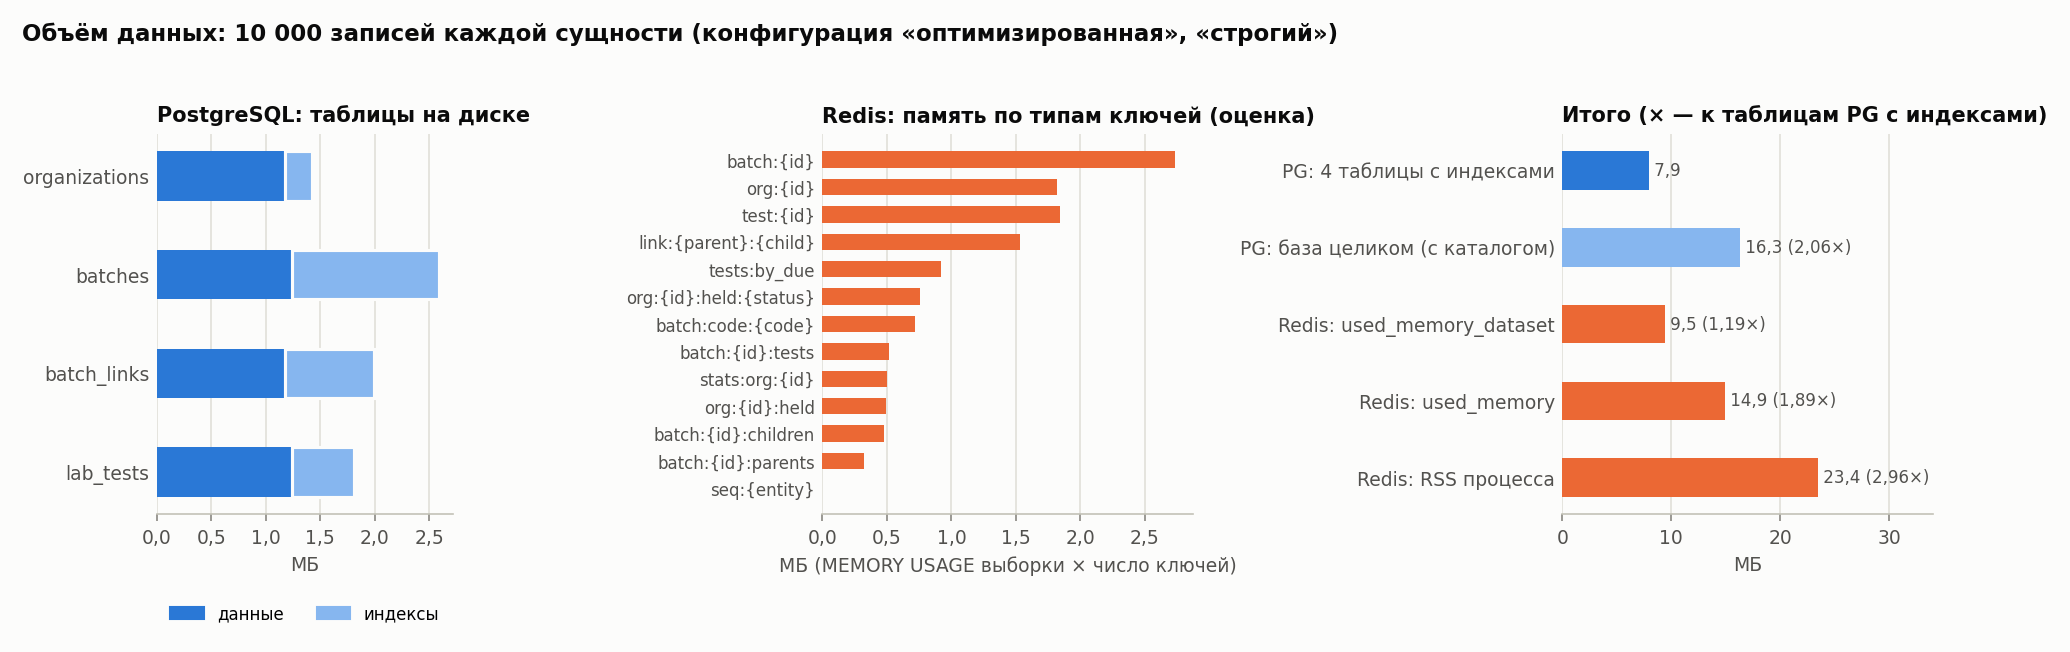
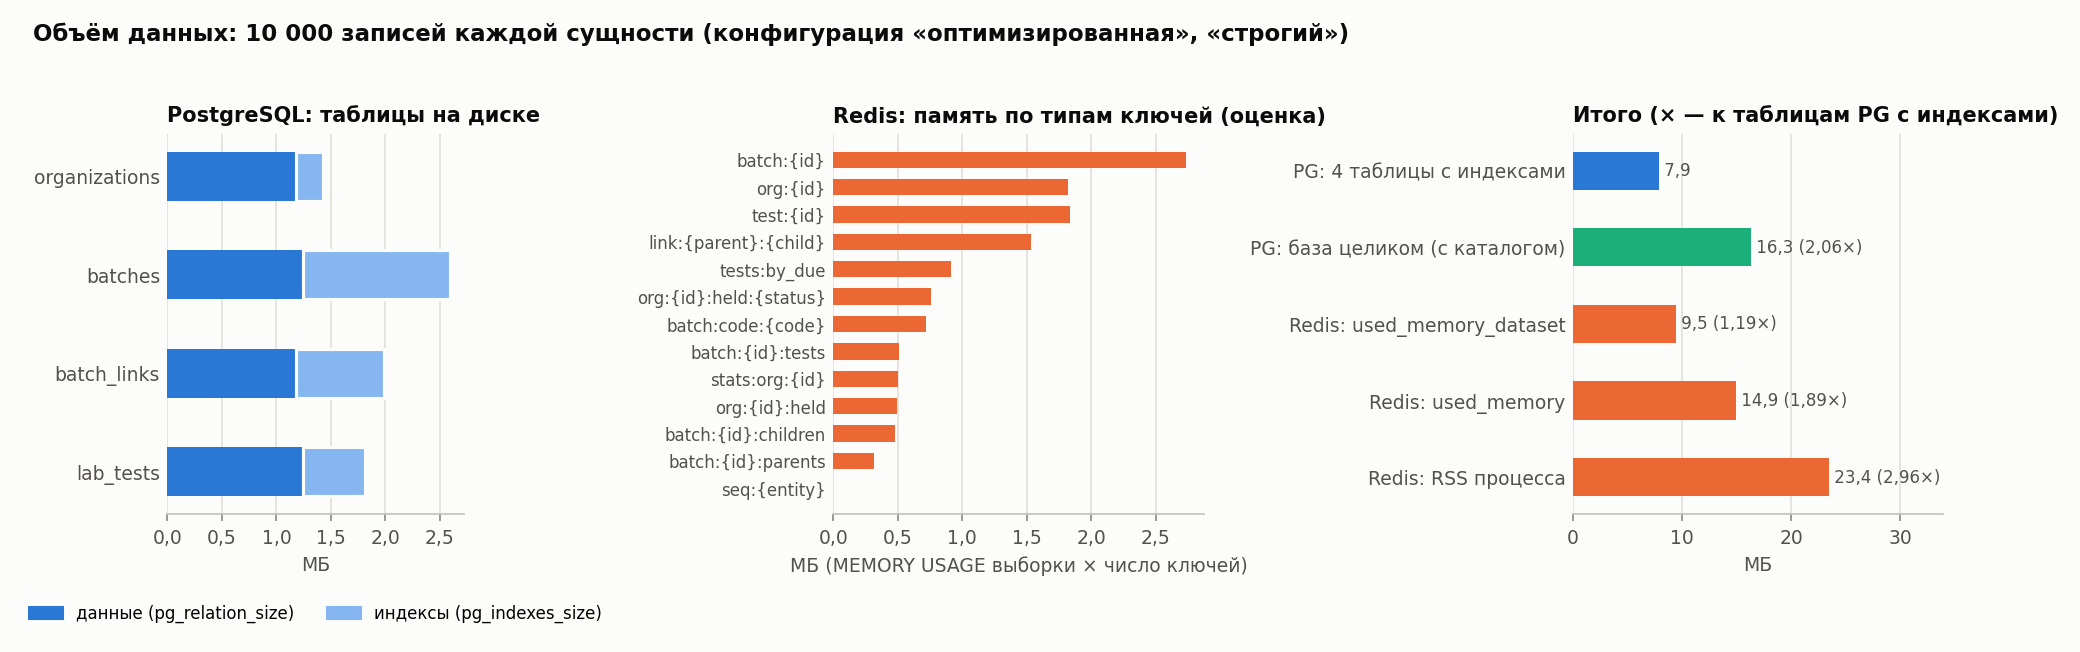
fix(bench): report wording and checker robustness (review round 2)
- checker: rejects dot decimals and letter-x factors in prose, and prose
  paragraphs with an odd number of backticks; docstring and report state
  exactly what is guaranteed and what is not (right number, wrong query)
- client_gap table: client CPU explains 31% (tuned) to 52% (default) of the
  R1 p50 gap, with the asyncio caveat
- hedges/corrections: RSS vs used_memory, D2 breakdown, max 22 descendants,
  fsync event maxima 8-20 ms, prepared ratios for both profiles
- generate.py records scale/seed in generate.json; dataset_profile reports it
- memory: no catalog ratio, distinct colour for the whole-database bar,
  exact data/index labels (pg_relation_size / pg_indexes_size)

diff --git a/benchmark/agrobench/report_tables.py b/benchmark/agrobench/report_tables.py
@@ -15,7 +15,15 @@ block is typed by hand: `python -m agrobench.report_tables` rewrites all blocks,
 - every number in the prose that is a result rather than a structural label — any number with a
   decimal comma, a thousands group, a `%` or a `×`, and any other integer >= 100 — appears as a
   whole token in some generated block. Method constants that are not in the data (warm-up sizes,
-  pipeline chunk sizes) are written as code (`1000`) and are not checked.
+  pipeline chunk sizes) are written as code (`1000`) and are not checked,
+- no prose number uses a decimal point (versions and constants go in code; section numbers after
+  `п.`/`§` and headings are exempt) and no factor is written with a letter x instead of `×`,
+- every prose paragraph has an even number of backticks (a stray one would pair with a later
+  backtick and hide the text in between from the checks above).
+
+Not detectable: a prose number that exists in the tables but is attributed to the wrong query,
+configuration or metric (the prose check proves a number is a real result, not that the sentence
+around it describes it correctly).
 
 Numbers are formatted the Russian way: decimal comma, no-break space between thousands.
 """
@@ -291,6 +299,25 @@ def _client_cpu(d: Data) -> str:
                      "16 клиентов: PG, ядер", "PG, мкс CPU/оп", "Redis, ядер", "Redis, мкс CPU/оп"], rows)
 
 
+def _client_gap(d: Data) -> str:
+    """How much of the PG–Redis p50 gap at 1 client the client CPU difference could explain."""
+    rows = []
+    for q in ("R1", "R6"):
+        for p in PROFILES:
+            pg = d.median("pg", p, "strict", q, "base", "uniform", 1)
+            rd = d.median("redis", p, "strict", q, "base", "uniform", 1)
+            gap = d.derive(float(pg["p50_us"]) - float(rd["p50_us"]))
+            cpu_pg = d.derive(float(pg["client_cpu_cores"]) / float(pg["ops_s"]) * 1e6)
+            cpu_rd = d.derive(float(rd["client_cpu_cores"]) / float(rd["ops_s"]) * 1e6)
+            cpu_gap = d.derive(cpu_pg - cpu_rd)
+            rows.append([f"{q} · {PROFILE_RU[p]}", us(pg["p50_us"]), us(rd["p50_us"]), fmt_num(gap, 1),
+                         fmt_num(cpu_pg, 1), fmt_num(cpu_rd, 1), fmt_num(cpu_gap, 1),
+                         fmt_num(d.derive(cpu_gap / gap * 100), 0) + "%"])
+    return md_table(["Запрос · конфигурация (1 клиент)", "PG p50, мкс", "Redis p50, мкс", "разница p50, мкс",
+                     "PG, мкс CPU клиента/оп", "Redis, мкс CPU клиента/оп", "разница CPU, мкс",
+                     "доля разницы p50"], rows)
+
+
 def _optimization(d: Data) -> str:
     rows = []
     for label, q, dbms, v in READ_RUNS:
@@ -401,7 +428,8 @@ def _memory_pg(d: Data) -> str:
                      mb(d.memory("pg", "tuned", "strict", t, "total_relation_size_bytes"))])
     rows.append(["вся база (pg_database_size, вместе с системным каталогом)", "", "",
                  mb(d.memory("pg", "tuned", "strict", "__database__", "total_bytes"))])
-    return md_table(["Таблица", "данные, МБ", "индексы, МБ", "всего (pg_total_relation_size), МБ"], rows)
+    return md_table(["Таблица", "данные (pg_relation_size), МБ", "индексы (pg_indexes_size), МБ",
+                     "всего (pg_total_relation_size, с картами FSM/VM), МБ"], rows)
 
 
 REDIS_KEYS = [
@@ -445,7 +473,8 @@ def _memory_compare(d: Data) -> str:
         ("Redis: used_memory", float(d.memory("redis", p, dur, "__instance__", "used_memory"))),
         ("Redis: RSS процесса", float(d.memory("redis", p, dur, "__instance__", "used_memory_rss"))),
     ]
-    rows = [[label, mb(v), fmt_num(d.derive(v / tables), 2) + "×"] for label, v in items]
+    rows = [[label, mb(v), "—" if "каталог" in label else fmt_num(d.derive(v / tables), 2) + "×"]
+            for label, v in items]
     return md_table(["Что (оптимизированная, строгий)", "МБ", "к таблицам PG с индексами"], rows)
 
 
@@ -642,6 +671,7 @@ BLOCKS: dict[str, Block] = {
     "reads_zipf": Block(_MED, _reads_zipf),
     "reads_c16": Block(_MED_RUNS, _reads_c16),
     "client_cpu": Block(_MED, _client_cpu),
+    "client_gap": Block(_MED, _client_gap),
     "optimization": Block(_MED_RUNS, _optimization),
     "prepared": Block(_MED, _prepared),
     "writes_tuned": Block(_MED_RUNS, _writes("tuned")),
@@ -709,6 +739,9 @@ _NUM_RE = re.compile(r"(?<![\w.,])\d+(?: \d{3})*(?:[.,]\d+)?")
 # optional % or ×. Whole tokens only: not glued to letters, digits, dots or commas on either side.
 _PROSE_RE = re.compile(r"(?<![\w.,])(?:\d{1,3}(?:[ \u00a0]\d{3})+|\d+)(?:,\d+)?(?: ?%|×)?(?!\w|[.,]\d)")
 _LINK_TARGET_RE = re.compile(r"\]\([^)]*\)")
+_SECTION_REF_RE = re.compile(r"(?:п\.|§)\s*\d+(?:\.\d+)*")
+_DOT_DECIMAL_RE = re.compile(r"(?<![\w.])\d+\.\d+")
+_LATIN_X_RE = re.compile(r"(?<![\w.,])\d+(?:[.,]\d+)?\s?[xх](?!\w)")
 _COMMENT_RE = re.compile(r"<!--.*?-->", re.S)
 _RAW_RE = re.compile(r"\d+(?:\.\d+)?")
 _CODE_SPAN_RE = re.compile(r"`[^`]*`")
@@ -817,7 +850,20 @@ def verify(text: str, data: Data, blocks: dict[str, Block] | None = None) -> lis
             problems.append(f"number {n} in a table outside the generated blocks")
     in_blocks = {_norm(t) for t in _PROSE_RE.findall("\n".join(generated))}
     prose = "\n".join(line for line in rest.splitlines() if not line.lstrip().startswith("|"))
-    prose = _COMMENT_RE.sub("", _LINK_TARGET_RE.sub("", _CODE_SPAN_RE.sub("", prose)))
+    prose = _COMMENT_RE.sub("", prose)
+    for para in re.split(r"\n\s*\n", prose):
+        if para.count("`") % 2:
+            first = para.strip().splitlines()[0][:60]
+            problems.append(f"prose paragraph has an odd number of backticks (a stray backtick would hide "
+                            f"the rest from the check): {first!r}")
+    prose = _LINK_TARGET_RE.sub("", _CODE_SPAN_RE.sub("", prose))
+    body = "\n".join(line for line in prose.splitlines() if not line.lstrip().startswith("#"))
+    body = _SECTION_REF_RE.sub("", body)
+    for token in _DOT_DECIMAL_RE.findall(body):
+        problems.append(f"prose number {token} uses a decimal point: write it with a comma (a result) "
+                        "or as code (a version or a constant)")
+    for token in _LATIN_X_RE.findall(body):
+        problems.append(f"prose factor {token.strip()} uses a letter x: write × (and generate the ratio)")
     for token in _PROSE_RE.findall(prose):
         if _checked(token) and _norm(token) not in in_blocks:
             problems.append(f"prose number {token.strip()} does not appear in any generated table")

diff --git a/benchmark/agrobench/plot.py b/benchmark/agrobench/plot.py
@@ -33,6 +33,7 @@ PG = "#2a78d6"
 PG_LIGHT = "#86b6ef"
 REDIS = "#eb6834"
 REDIS_LIGHT = "#f4a784"
+CATALOG = "#1baf7a"  # categorical slot 3: PG database incl. catalog, distinct from the like-for-like bar
 BASELINE_GREY = "#b8b6ae"
 SURFACE = "#fcfcfb"
 INK = "#0b0b0b"
@@ -334,7 +335,7 @@ def memory(d: rt.Data, out_dir: Path) -> Path:
     ax.set_title("PostgreSQL: таблицы на диске", loc="left")
     ax.set_xlabel("МБ")
     ax.xaxis.set_major_formatter(_num(1))
-    ax.legend(handles=[Patch(color=PG, label="данные"), Patch(color=PG_LIGHT, label="индексы")],
+    ax.legend(handles=[Patch(color=PG, label="данные (pg_relation_size)"), Patch(color=PG_LIGHT, label="индексы (pg_indexes_size)")],
               loc="upper center", bbox_to_anchor=(0.5, -0.2), ncol=2, fontsize=8)
     _style(ax)
 
@@ -353,7 +354,7 @@ def memory(d: rt.Data, out_dir: Path) -> Path:
     tables = sum(float(d.memory("pg", p, dur, t, "total_relation_size_bytes")) for t in rt.PG_TABLES)
     totals = [
         ("PG: 4 таблицы с индексами", tables, PG),
-        ("PG: база целиком (с каталогом)", float(d.memory("pg", p, dur, "__database__", "total_bytes")), PG_LIGHT),
+        ("PG: база целиком (с каталогом)", float(d.memory("pg", p, dur, "__database__", "total_bytes")), CATALOG),
         ("Redis: used_memory_dataset", float(d.memory("redis", p, dur, "__instance__", "used_memory_dataset")), REDIS),
         ("Redis: used_memory", float(d.memory("redis", p, dur, "__instance__", "used_memory")), REDIS),
         ("Redis: RSS процесса", float(d.memory("redis", p, dur, "__instance__", "used_memory_rss")), REDIS),

diff --git a/benchmark/tests/test_report_tables.py b/benchmark/tests/test_report_tables.py
@@ -245,3 +245,20 @@ def test_client_cpu_table_divides_client_cores_by_ops():
     r1 = next(line for line in table.splitlines() if line.startswith("| R1 "))
     # tuned/strict/uniform R1 c=1: pg 0.665 cores / 5149.84 ops/s = 129.1 µs; redis 0.753 / 6468.11 = 116.4.
     assert "129,1" in r1 and "116,4" in r1
+
+
+# ---------------------------------------------------------------------------------------------
+# fix round 2: dot decimals, Latin-x factors, stray backticks
+# ---------------------------------------------------------------------------------------------
+
+def test_prose_dot_decimals_and_latin_x_factors_are_rejected(tiny):
+    assert _prose_problems(tiny, "Задержка 143.4 мкс.")
+    assert _prose_problems(tiny, "Redis быстрее в 2x.")
+    assert _prose_problems(tiny, "Redis быстрее в 1,5x.")
+    # versions in code, section numbers and headings are not results
+    assert _prose_problems(tiny, "Python `3.12`, см. п. 9.2 и §13.6.\n\n### 9.1. Чтение") == []
+
+
+def test_odd_backticks_in_a_paragraph_are_rejected(tiny):
+    problems = _prose_problems(tiny, "Команда `GET без закрывающей кавычки, а дальше 141,0 мкс.")
+    assert any("backtick" in p for p in problems)

diff --git a/benchmark/tests/test_dataset_profile.py b/benchmark/tests/test_dataset_profile.py
@@ -13,6 +13,7 @@ def test_profile_counts_match_the_generated_data(tmp_path):
     for name, rows in (("organizations", g.organizations), ("batches", g.batches),
                        ("batch_links", g.batch_links), ("lab_tests", g.lab_tests)):
         write_csv(rows, tmp_path / f"{name}.csv")
+    (tmp_path / "generate.json").write_text('{"scale": 500, "seed": 42}', encoding="utf-8")
     p = dict(dp.profile(tmp_path))
     assert p["rows_batches"] == 500 and p["rows_batch_links"] == len(g.batch_links)
     assert p["batches_raw"] + p["batches_derived"] == 500
@@ -27,3 +28,10 @@ def test_profile_counts_match_the_generated_data(tmp_path):
 def test_max_depth_is_the_longest_path_in_the_dag(tmp_path):
     links = [{"parent_id": 1, "child_id": 2}, {"parent_id": 2, "child_id": 3}, {"parent_id": 1, "child_id": 3}]
     assert dp.max_depth(links) == 2
+
+
+def test_profile_records_the_seed_generate_actually_used(tmp_path):
+    generate_main = __import__("agrobench.generate", fromlist=["main"]).main
+    generate_main(["--scale", "200", "--seed", "7", "--out-dir", str(tmp_path)])
+    p = dict(dp.profile(tmp_path))
+    assert p["seed"] == 7 and p["scale"] == 200

diff --git a/benchmark/agrobench/dataset_profile.py b/benchmark/agrobench/dataset_profile.py
@@ -12,6 +12,7 @@ from __future__ import annotations
 
 import argparse
 import csv
+import json
 import os
 from collections import Counter, defaultdict
 from pathlib import Path
@@ -46,6 +47,12 @@ def max_depth(links: list[dict]) -> int:
     return max(depth.values(), default=0)
 
 
+def _generated_with(data_dir: Path) -> list[tuple[str, float]]:
+    """scale and seed as recorded by agrobench.generate next to the CSVs (generate.json)."""
+    meta = json.loads((Path(data_dir) / "generate.json").read_text(encoding="utf-8"))
+    return [("scale", meta["scale"]), ("seed", meta["seed"])]
+
+
 def profile(data_dir: Path) -> list[tuple[str, float]]:
     data_dir = Path(data_dir)
     orgs = _read(data_dir / "organizations.csv")
@@ -71,7 +78,7 @@ def profile(data_dir: Path) -> list[tuple[str, float]]:
         *[(f"spec_status_share_{s}", share) for s, share in generate.STATUS_SHARE.items()],
         ("spec_fail_share", generate.FAIL_SHARE),
         ("spec_max_depth", generate.MAX_DEPTH),
-        ("seed", generate.DEFAULT_SEED),
+        *_generated_with(data_dir),
     ]
     return out
 

diff --git a/benchmark/agrobench/generate.py b/benchmark/agrobench/generate.py
@@ -15,6 +15,7 @@ from __future__ import annotations
 
 import argparse
 import csv
+import json
 import random
 from dataclasses import dataclass
 from datetime import datetime, timedelta, timezone
@@ -181,6 +182,9 @@ def main(argv: list[str] | None = None) -> None:
     write_csv(result.batches, args.out_dir / "batches.csv")
     write_csv(result.batch_links, args.out_dir / "batch_links.csv")
     write_csv(result.lab_tests, args.out_dir / "lab_tests.csv")
+    # What was actually used, for agrobench.dataset_profile (the report quotes it).
+    (args.out_dir / "generate.json").write_text(
+        json.dumps({"scale": args.scale, "seed": args.seed}) + "\n", encoding="utf-8")
     print(
         f"generated scale={args.scale} seed={args.seed}: "
         f"{len(result.organizations)} organizations, {len(result.batches)} batches, "
